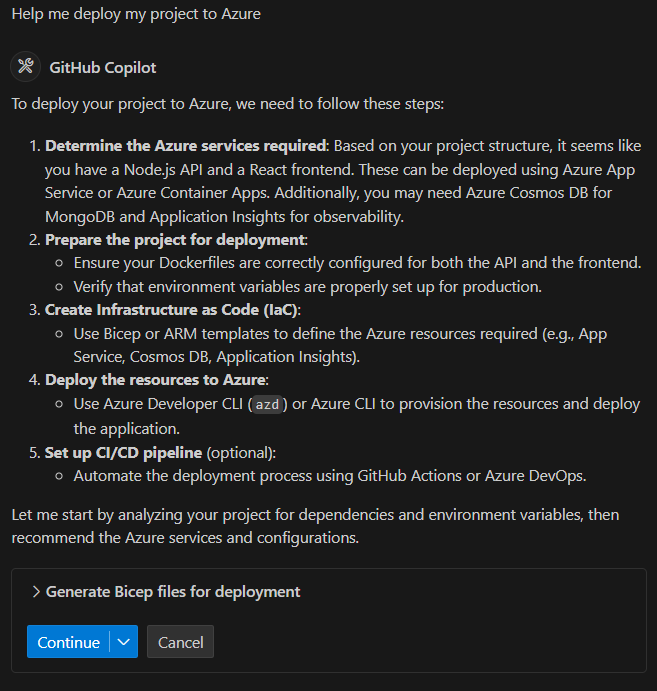
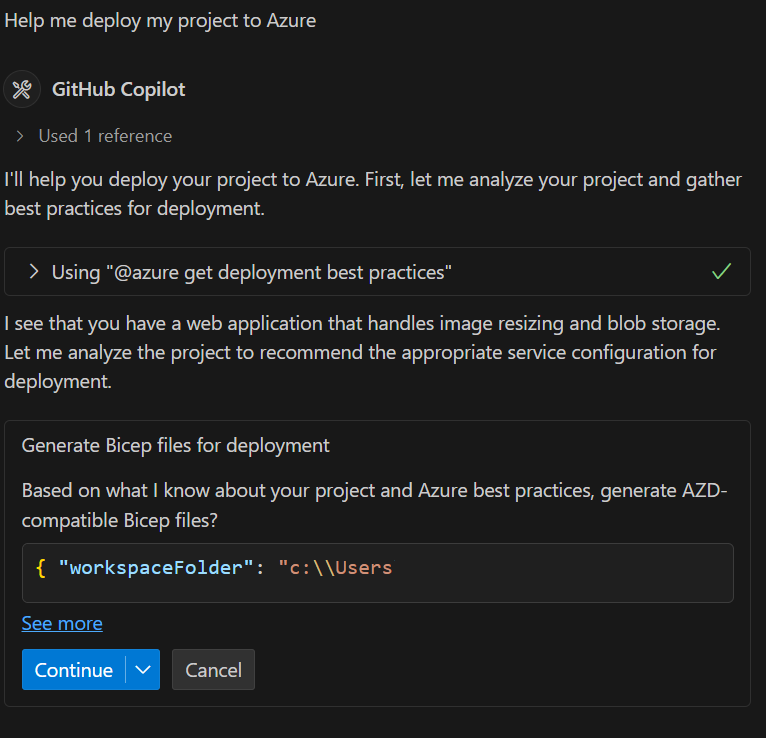
New text and screenshots from Ji

Changed region(s): [[0.0, 0.0, 0.9741, 0.7902], [0.0304, 0.8205, 0.4566, 0.9725]]

diff --git a/articles/github-copilot-azure/quickstart-deploy-app-agent-mode.md b/articles/github-copilot-azure/quickstart-deploy-app-agent-mode.md
@@ -4,7 +4,7 @@ description: This article demonstrates how to use agent mode in GitHub Copilot f
 keywords: github, copilot, ai, azure
 ms.service: github-copilot-for-azure
 ms.topic: quickstart
-ms.date: 05/14/2025
+ms.date: 05/22/2025
 ms.collection: ce-skilling-ai-copilot
 ---
 
@@ -32,9 +32,9 @@ In this section, use GitHub Copilot agent mode to create [Bicep deployment files
    If you want to follow along with this tutorial, you can clone the following repo from GitHub to your local computer:
 
    ```bash
-   git clone https://github.com/Azure-Samples/todo-nodejs-mongo-aca.git
+   git clone https://github.com/Azure-Samples/storage-blob-upload-from-webapp.git
    ```
-
+   
 1. In Visual Studio Code, on the Title Bar, select the **Open Chat** icon (the GitHub Copilot logo) to open the chat pane in the Secondary side bar. Select **Agent** under the chat text box.
 
    :::image type="content" source="media/quickstart-deploy-app-agent-mode/ask-copilot.png" alt-text="Screenshot that shows the GitHub Copilot chat pane.":::
@@ -47,44 +47,54 @@ In this section, use GitHub Copilot agent mode to create [Bicep deployment files
    Help me deploy my project to Azure
    ```
 
-   Copilot agent mode provides a list of steps we need to follow to deploy the app and starts executing these steps. It first analyzes the project, recommends Azure services, and generates Bicep files. You might see a response like the following example.
+   Copilot Agent analyzes our project, recommend Azure services, and generate Bicep files. You might see a response like the following example. 
 
-   :::image type="content" source="media/quickstart-deploy-app-agent-mode/recommend-resources.png" alt-text="Screenshot that shows the GitHub Copilot chat pane with detected services, recommended resources, bindings, and environment variables.":::
+   :::image type="content" source="media/quickstart-deploy-app-agent-mode/recommend-resources.png" alt-text="Screenshot of the GitHub Copilot chat pane evaluating your project to recommend resources.":::
 
    > [!IMPORTANT]
    > The exact wording of the response is different each time GitHub Copilot for Azure answers, due to how large language models generate responses.
 
-1. Select **Continue**. Copilot agent mode recommends suitable Azure resources for the application. You might see a response like the following example.
+   Select **Continue** and Copilot Agent finishes analyzing our project and starts to generate the necessary files. You might see a response like the following example. 
 
-   :::image type="content" source="media/quickstart-deploy-app-agent-mode/deployment-plan.png" alt-text="Screenshot of the GitHub Copilot chat pane with a recommended deployment plan.":::
+   :::image type="content" source="media/quickstart-deploy-app-agent-mode/generate-bicep.png" alt-text="Screenshot of the GitHub Copilot chat pane creating a directory for the bicep files.":::
+
+
+   Select **Continue** and Copilot will generate the necessary files for deployment. You might see a few files generated in the project and a response like the following example. 
+
+   :::image type="content" source="media/quickstart-deploy-app-agent-mode/generate-bicep-files.png" alt-text="Screenshot of the GitHub Copilot chat pane generating the bicep files.":::
+
+### Deploy your application
+
+1. With the Bicep deployment files generated, now we can deploy our application. Continuing with the flow above, Copilot agent wants to run a pre-deployment check. 
+
+   :::image type="content" source="media/quickstart-deploy-app-agent-mode/pre-deployment-check.png" alt-text="Screenshot of the GitHub Copilot chat pane checking files and local environment to ensure they're ready for azd up.":::
+
+
+1. Select **Continue** and Copilot agent checks if our app is ready to deploy with AZD. If there’s an issue, Copilot agent will fix it and check again, like in the following example. 
+
+   :::image type="content" source="media/quickstart-deploy-app-agent-mode/pre-deployment-issues.png" alt-text="Screenshot of the GitHub Copilot chat pane checking files fixing issues before running azd up.":::
+
+1. Once the pre-deployment check passes, Copilot agent continues with the deployment process. It checks for a few dependencies first. You might see a response like the following example. 
+
+   :::image type="content" source="media/quickstart-deploy-app-agent-mode/deployment-dependencies.png" alt-text="Screenshot of the GitHub Copilot chat pane checking dependencies before running azd up.":::
+
+
+1. Select **Continue** for each dependency check. Copilot agent asks if we want to proceed with deployment. You might see a response like the following example. 
  
-1. Type **Yes** in the chat text box. Copilot agent mode generates the necessary files for deployment. You might see a few files generated in the project and a response asking to proceed with the predeployment check similar to the following example.
+   :::image type="content" source="media/quickstart-deploy-app-agent-mode/deployment-proceed.png" alt-text="Screenshot of the GitHub Copilot chat pane asks if it should proceed with deployment.":::
 
-   :::image type="content" source="media/quickstart-deploy-app-agent-mode/generate-bicep.png" alt-text="Screenshot of the GitHub Copilot chat pane with a callout highlighting the new **infra** folder and files and the new azure.yaml file.":::
 
-## Deploy the application
+1. Select **Continue**. Copilot agent should open the terminal on run `azd up` on your behalf. Follow the required steps in the terminal. 
 
-You can now deploy the application using the Bicep deployment files and the AZD template generated in the previous section.
+   You might encounter an error with .NET version; Copilot picks it up and generates a fix for it. You might see a response like the following example. 
 
-1. At the end of the previous section, Copilot agent mode asked you whether you wanted to run a predeployment check. Enter **Yes**. You might see a response like the following example.
+   :::image type="content" source="media/quickstart-deploy-app-agent-mode/upgrade-dotnet.png" alt-text="Screenshot of the GitHub Copilot chat pane informing about the need to upgrade to .NET 8.":::
+   
 
-   :::image type="content" source="media/quickstart-deploy-app-agent-mode/check-azd.png" alt-text="Screenshot of the GitHub Copilot chat pane asking to check if the application is ready to deploy with Azure Developer CLI (AZD).":::
+1. Select **Continue**. Copilot agent deploys our app successfully. You might see a response like the following example. 
 
-1. Select **Continue**. Copilot agent mode checks if the application is ready to deploy with AZD. If there's a problem, Copilot agent mode fixes it and checks again. In this case, you might see a response similar to the following example.
+   :::image type="content" source="media/quickstart-deploy-app-agent-mode/upgrade-dotnet.png" alt-text="Screenshot of the GitHub Copilot chat pane informing about deployment success and next steps.":::
 
-   :::image type="content" source="media/quickstart-deploy-app-agent-mode/pre-deployment-validation.png" alt-text="Screenshot of the GitHub Copilot chat pane showing the results of a predeployment validation.":::
-
-1. After the predeployment validation successfully completes, Copilot agent mode continues with the deployment process and validates whether dependencies are installed and configured. You might see a response like the following example.
-
-   :::image type="content" source="media/quickstart-deploy-app-agent-mode/dependency-check.png" alt-text="Screenshot of the GitHub Copilot chat pane getting ready to validate dependencies.":::
-
-1. Select **Continue** for each dependency check. Copilot agent mode asks if you want to proceed with deployment. You might see a response like the following example.
-
-   :::image type="content" source="media/quickstart-deploy-app-agent-mode/ready-deployment.png" alt-text="Screenshot of the GitHub Copilot chat pane indicating that deployment is ready.":::
-
-1. Enter **Yes**. Copilot agent mode should open the terminal and run `azd up` on your behalf. Follow the required steps in the terminal and you might see a response like the following example.
-
-   :::image type="content" source="media/quickstart-deploy-app-agent-mode/deployment-successful.png" alt-text="Screenshot of the GitHub Copilot chat pane showing a successful deployment.":::
 
 1. If any errors were encountered during the deployment process, Copilot agent mode can also fix the errors and redeploy the application.
 
@@ -96,6 +106,9 @@ You can now deploy the application using the Bicep deployment files and the AZD 
   - **@azure check pre-deploy**
   - **@azure AZD Up (Deploy)**
   - **@azure check app status for azd deployment**
+  - **@azure config deployment pipeline**
+  - **@azure check region availability**
+  - **@azure check quota availability**
 
    :::image type="content" source="media/quickstart-deploy-app-agent-mode/azure-tools.png" alt-text="Screenshot of the selected GitHub Copilot for Azure tools.":::
 
